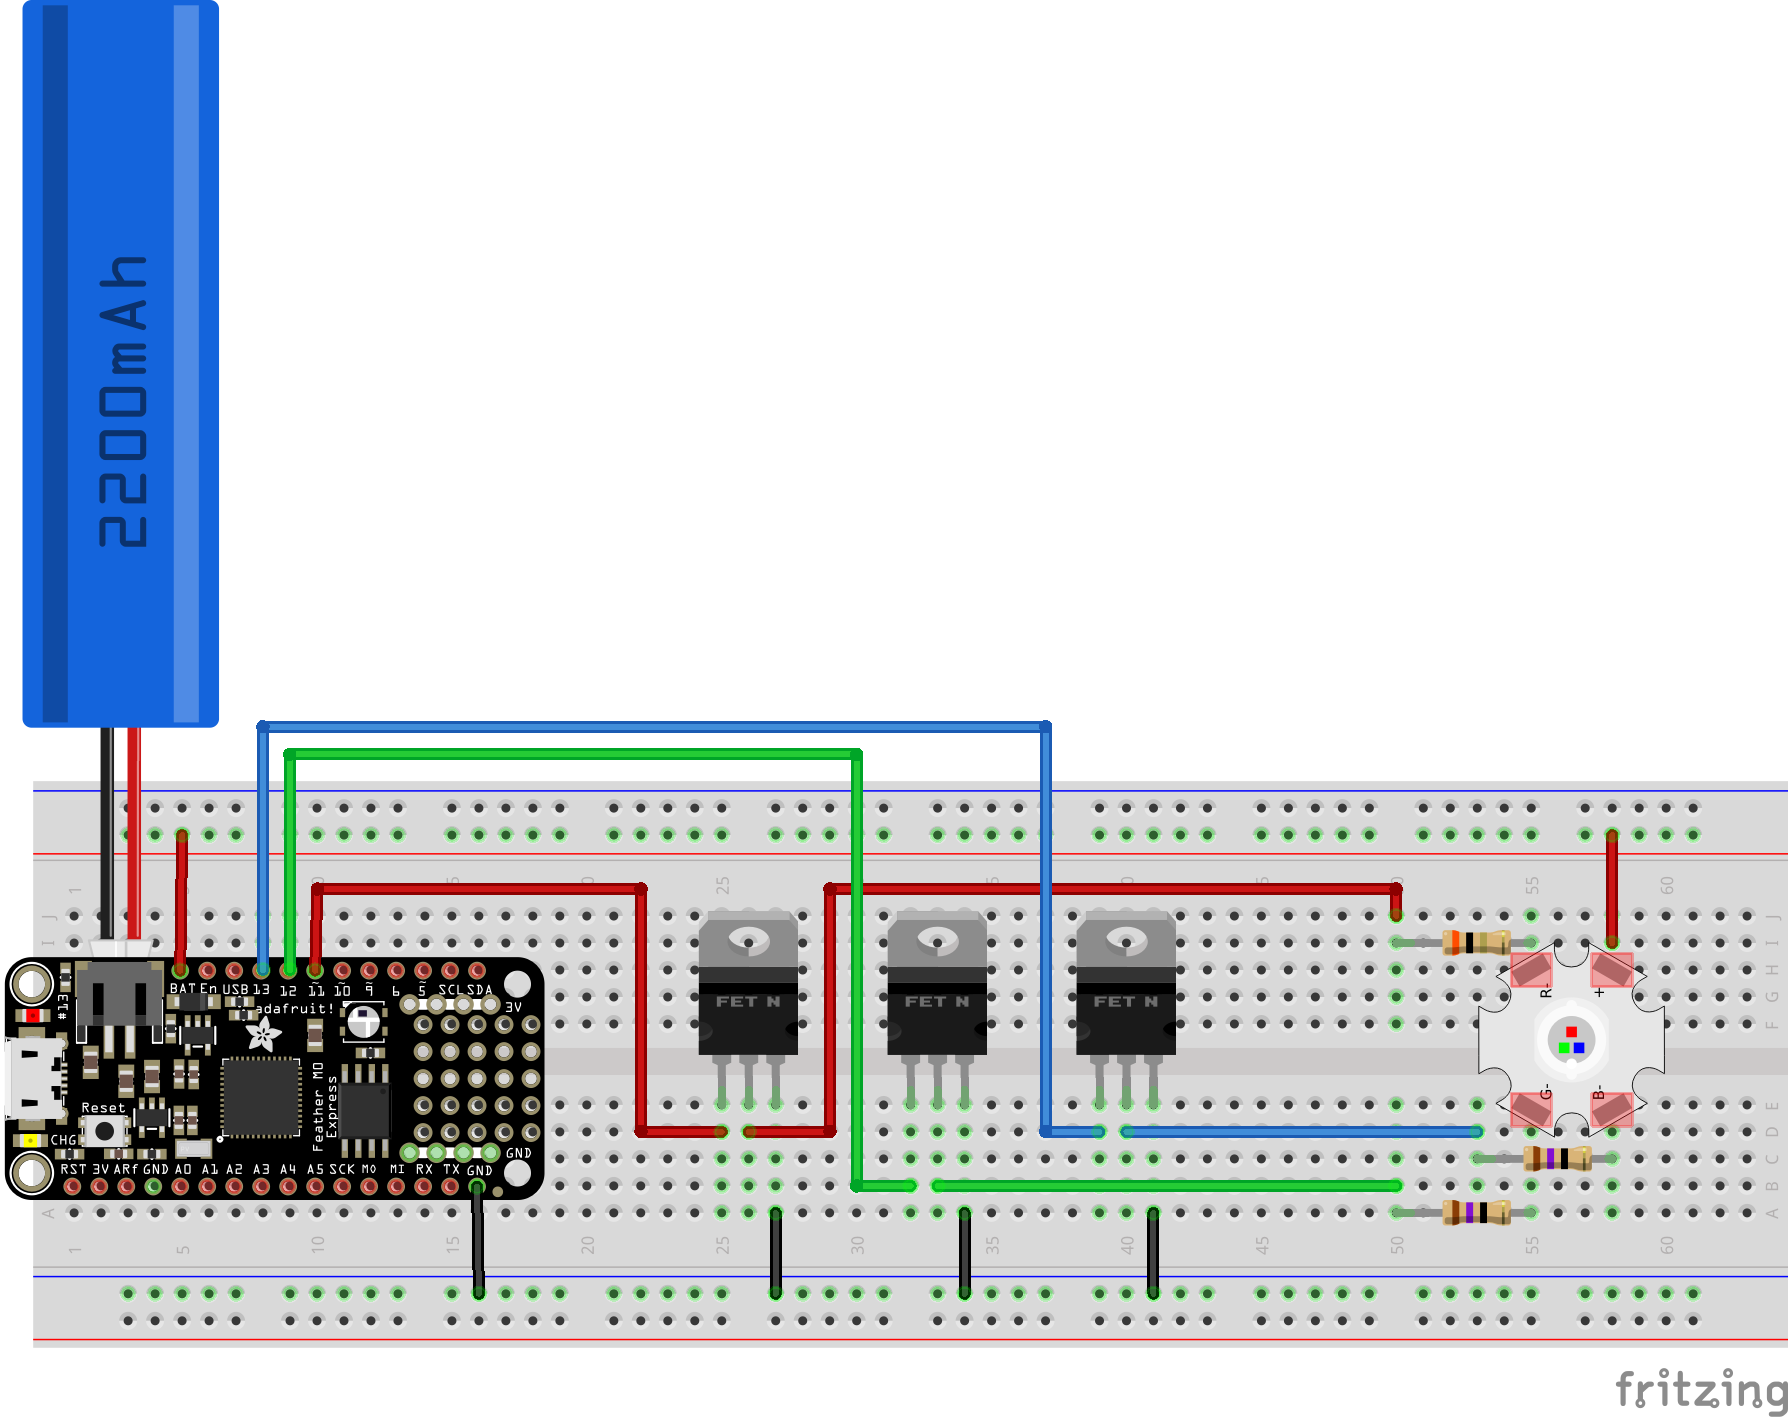
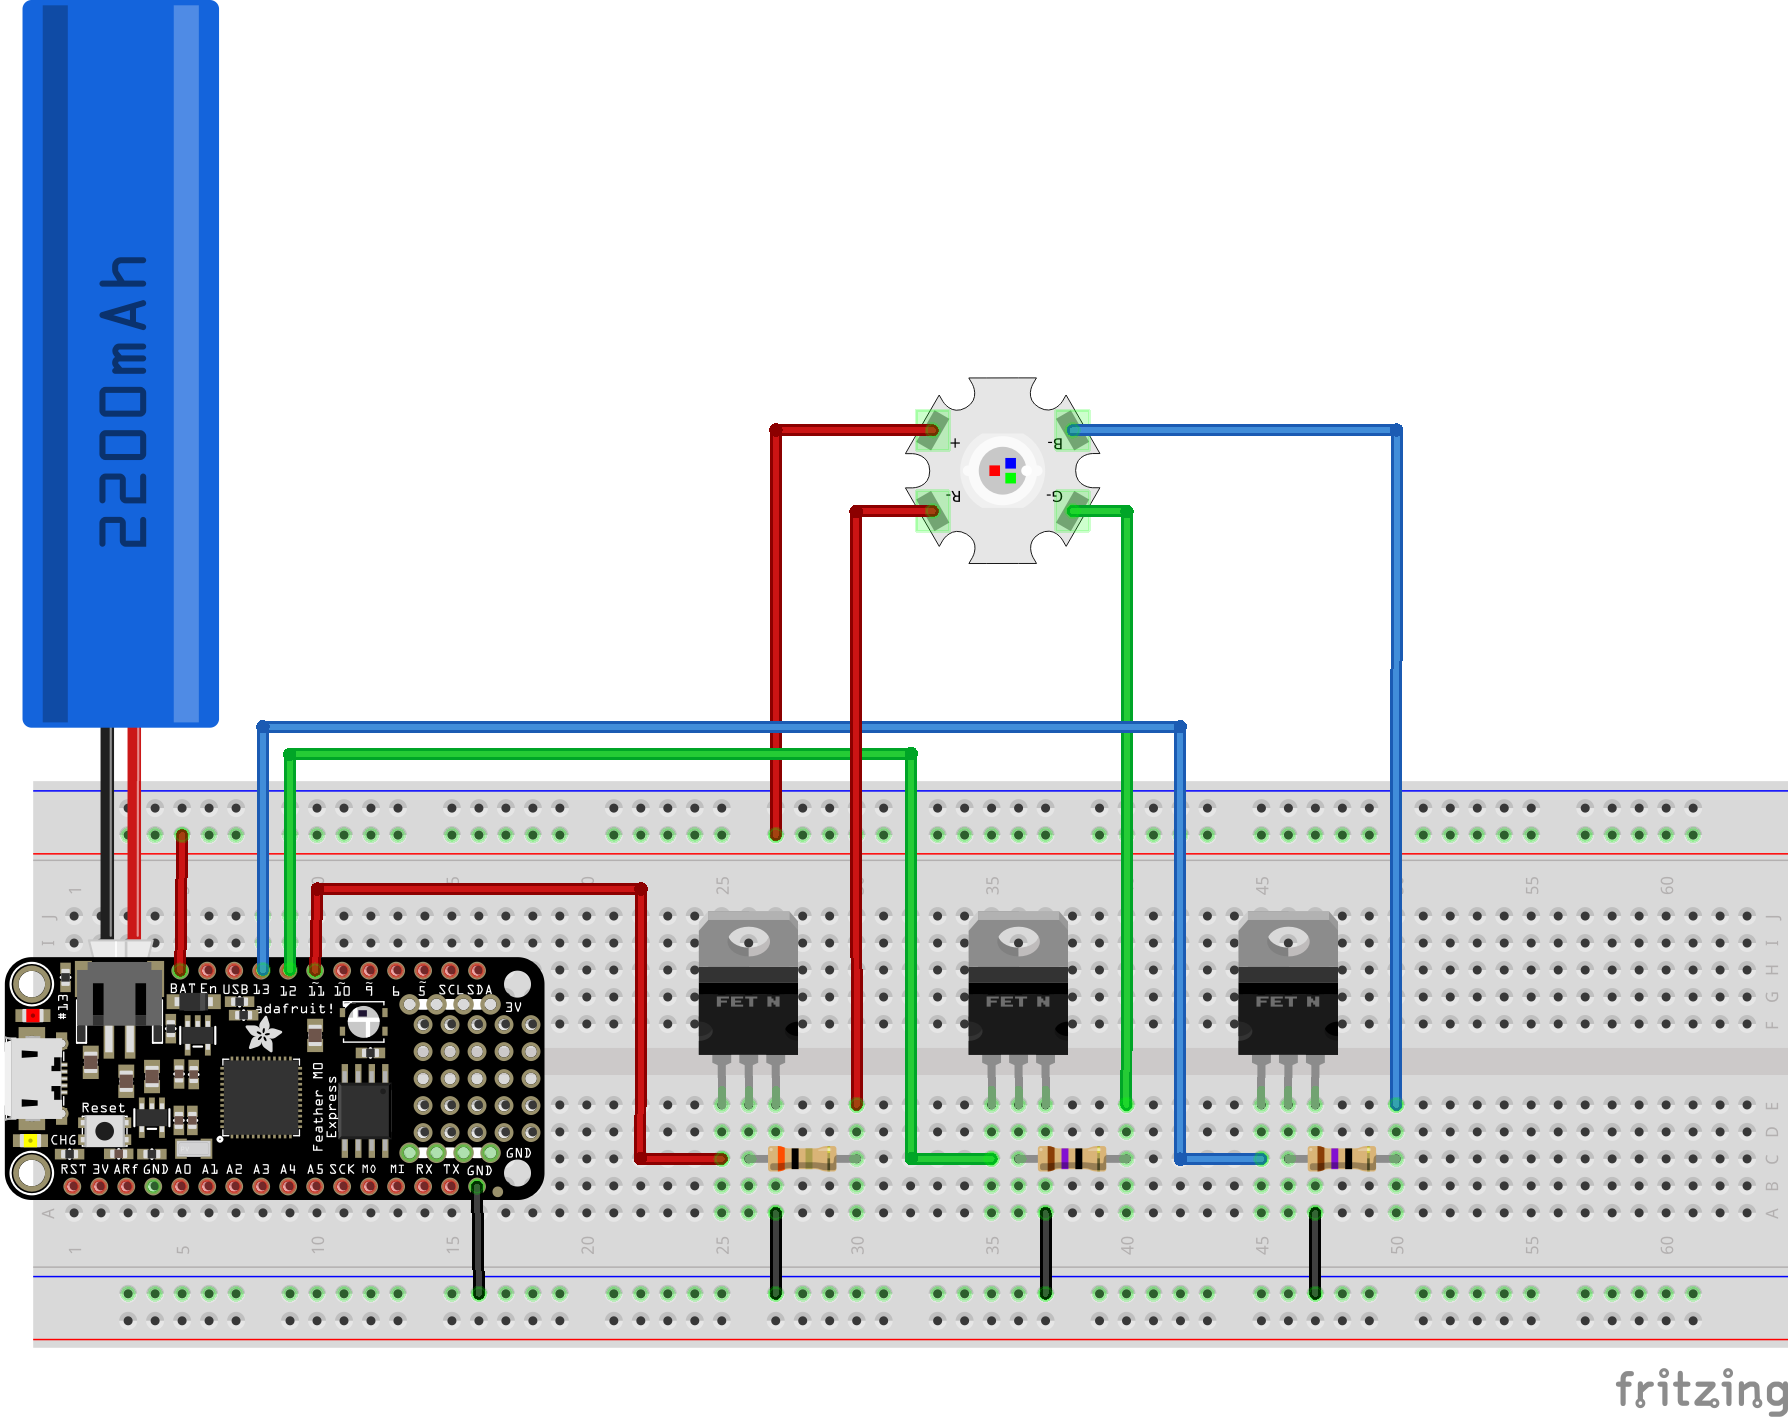
Updated Fritzing layout.

Changed region(s): [[0.3384, 0.2484, 0.9228, 0.9315]]

diff --git a/README.md b/README.md
@@ -43,7 +43,7 @@ The following two Adafruit guides provided all the information needed to produce
 
 The [Fritzing](https://fritzing.org/home/) file for this circuit is [here](3w-rgb-led-circuit.fzz).
 
-Note: in the diagram above the 3W RGB LED is shown as if it were a breadboardable component (with pins on the underside corresponding to the pads seen on the top). In reality you'd have to solder the resistors directly to each pad (or solder on jumper wires).
+In order to connect the 3W RGB LED you could solder jumper wires onto its pads or you could use jumper wires with alligator clips at one end (like [these](https://www.adafruit.com/product/3448) from Adafruit).
 
 This circuit uses a 3.7V battery.
 
@@ -63,6 +63,8 @@ TODO: this is all so odd that it's probably best to work out suitable resistors 
 Note: that 3.7V LiPo batteries are actually 4.2V when fully charged (see the [voltages page](https://learn.adafruit.com/li-ion-and-lipoly-batteries/voltages) of the Adafruit guide to LiPo batteries for more on the discharge profile of such batteries).
 
 TODO: is there 5V on Vbat when recharging the LiPo via USB? If so will this cause problems for recharging if the source is low amps, e.g. 500mA for a laptop USB port, or will it cause problems if the source is high amps, e.g. a 2A power adapter, i.e. enough to charge and drive the LED circuit at 5V (despite the limiting resistors being for just 4.2V)? This would be kind of stupid - it'd mean your circuit has to be 3.2V to 5V tolerant.
+
+**Important:** most breadboards are rated for about 1A at 5V - so this circuit is operating near to the limits of what a breadboard can handle. If you intend using this circuit over an extended period you should use something like an Adafruit [perma-proto board](https://www.adafruit.com/product/591) or a [perfboard](https://www.adafruit.com/product/2670) instead and solder things in place permanently.
 
 Pull-down resistors
 -------------------
